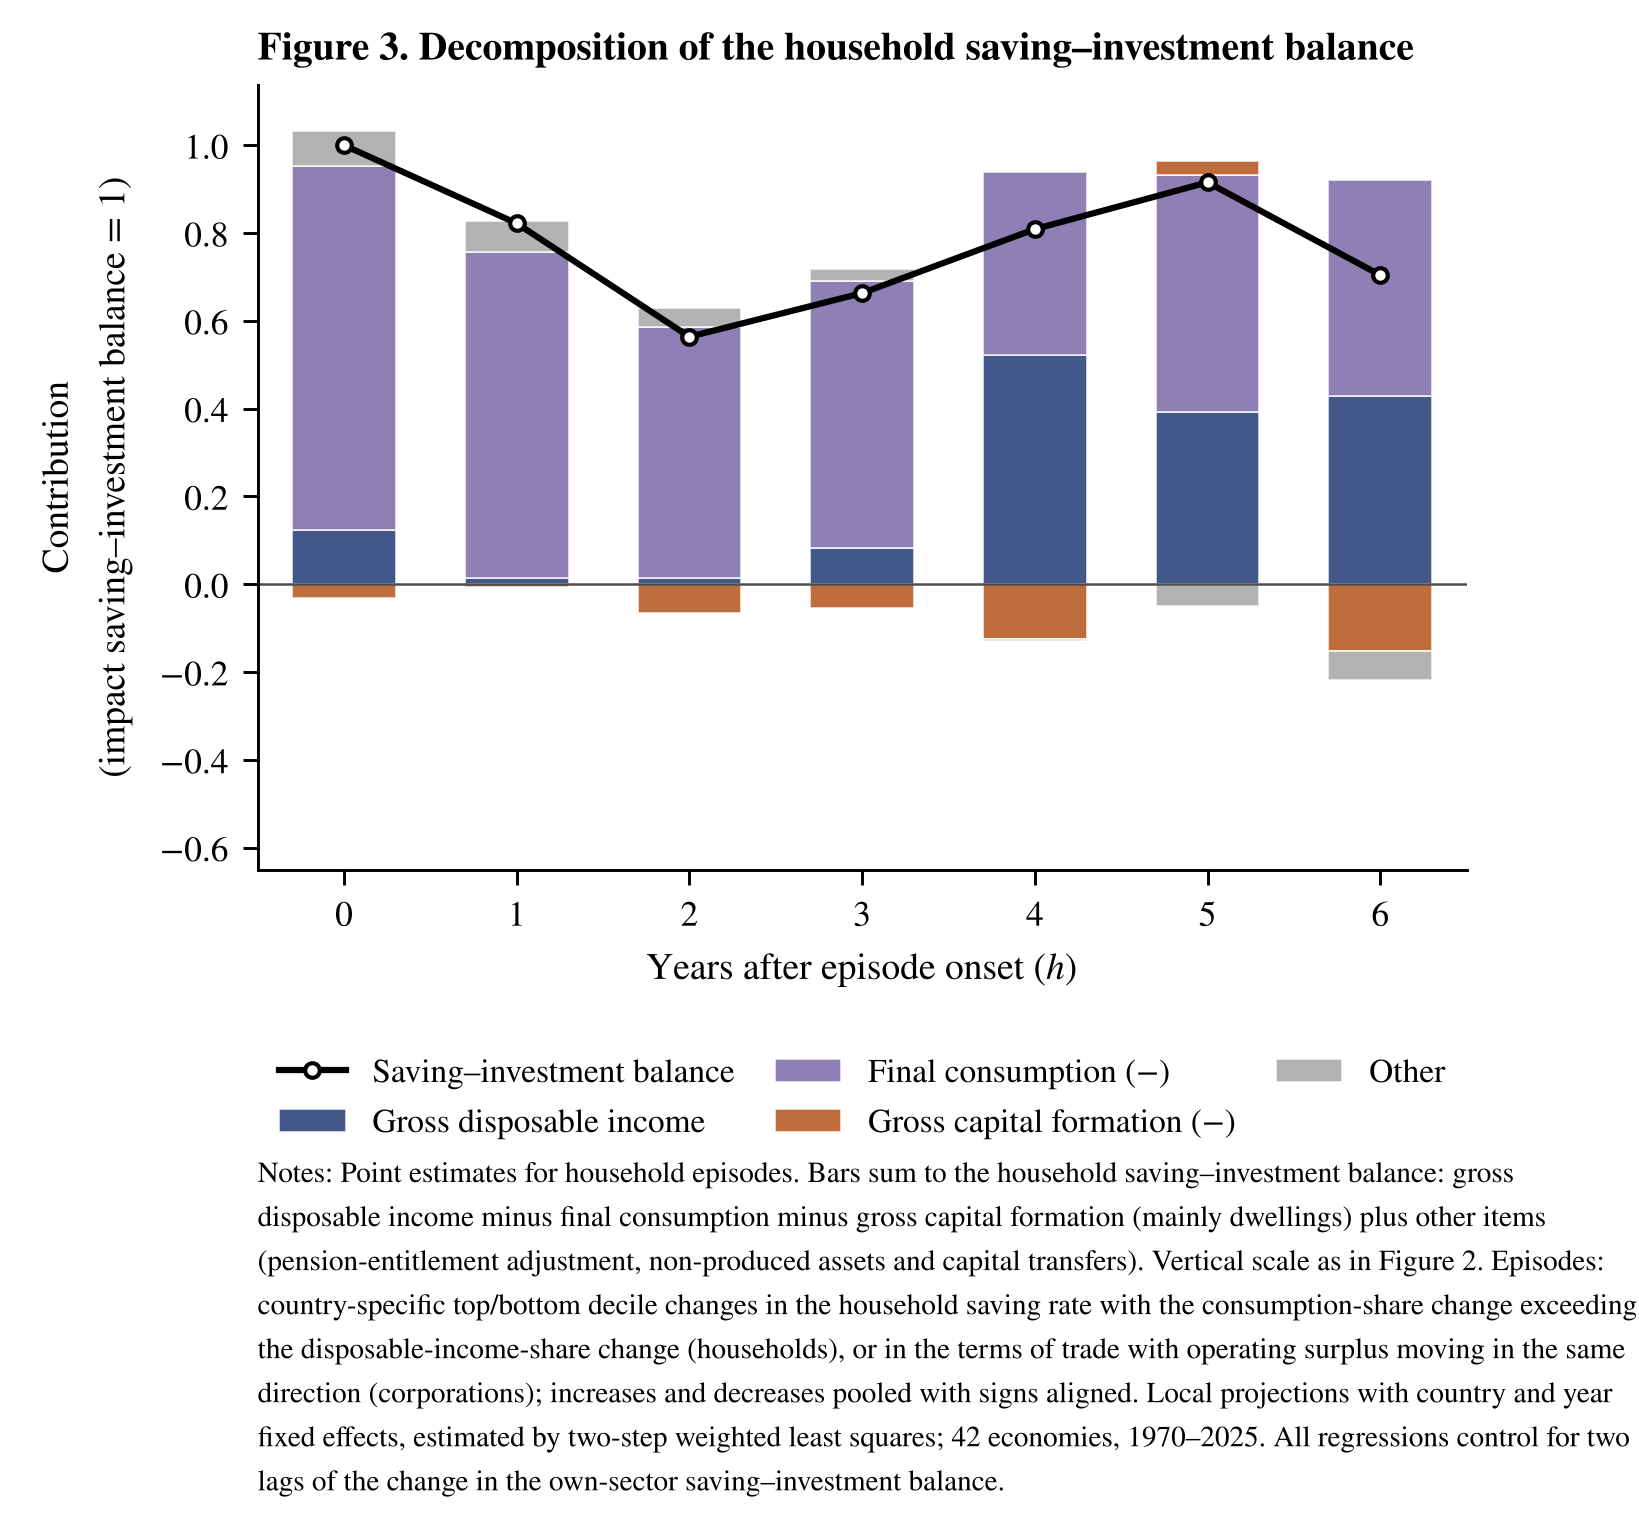
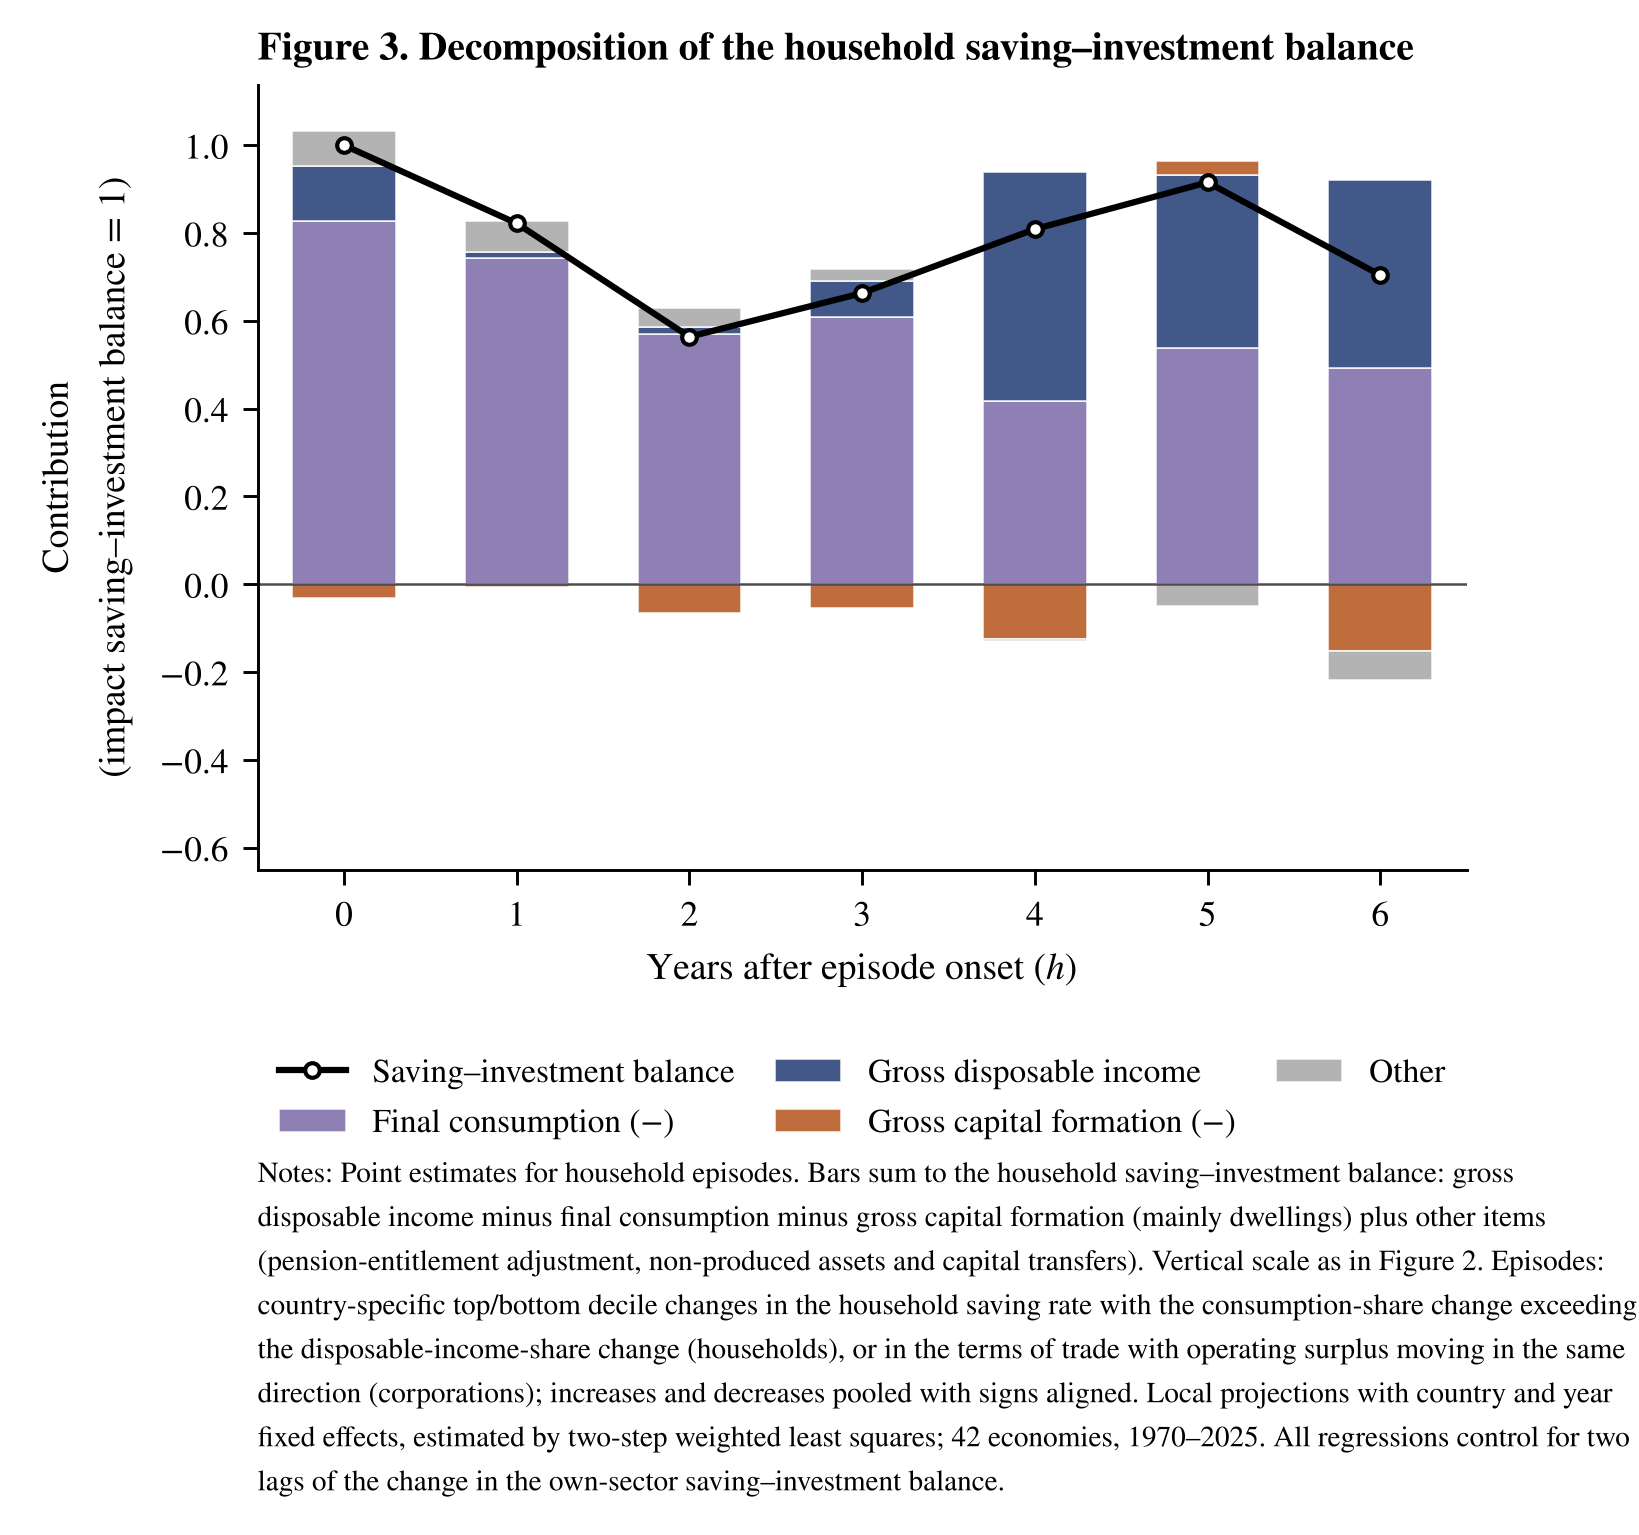
Figure 3: stack consumption at the bottom
Claude-Session: https://claude.ai/code/session_01QSFGVrqZTZBvgbV4CUsjF6

diff --git a/research/sector_saving_ca/fig_paper.py b/research/sector_saving_ca/fig_paper.py
@@ -123,8 +123,8 @@ def comps_hh():
     c = r[(r.sector == "hh") & (r.h <= HMAX)]
     g = lambda v: c[c["var"] == v].sort_values("h").ratio.values
     nl = g("nl_hh")
-    comps = [("Gross disposable income", g("yd_hh"), "#1f3b73"), ("Final consumption (−)", -g("cons_hh"), "#7a6aa8"),
-             ("Gross capital formation (−)", -g("gcf_hh"), "#b5541c")]
+    comps = [("Final consumption (−)", -g("cons_hh"), "#7a6aa8"), ("Gross disposable income", g("yd_hh"), "#1f3b73"),
+             ("Gross capital formation (−)", -g("gcf_hh"), "#b5541c")]  # 소비를 맨 아래에: 지속되는 소비 감소가 바닥에 보이도록
     comps.append(("Other", nl - sum(v for _, v, _ in comps), "#a6a6a6"))
     return comps, nl
 
